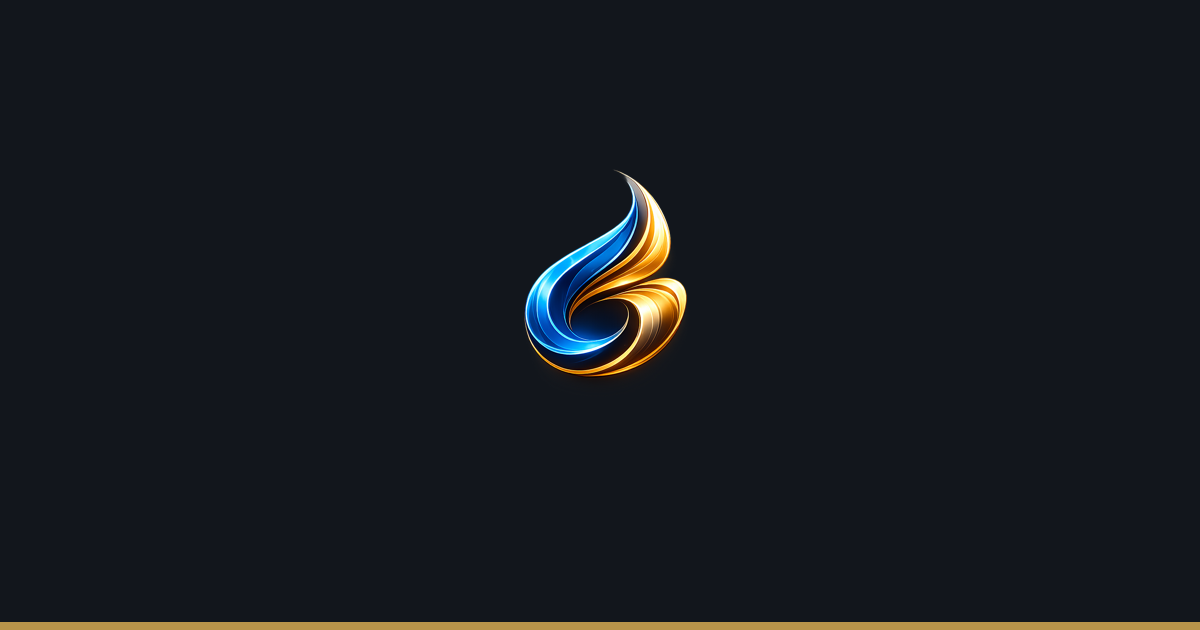
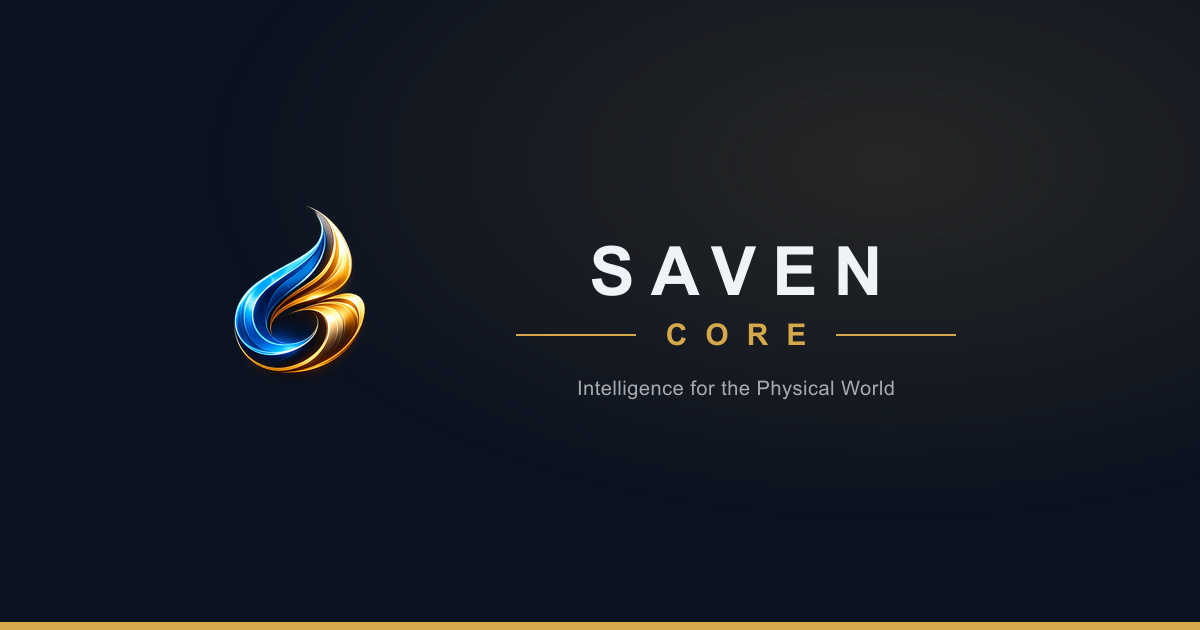
Add falcon seal on domain mastheads and branded OG share cards (D-0179).
Ensure shared links always preview with the SAVEN falcon mark and SAVEN Core name.

diff --git a/src/components/hub/HubReadablePage.tsx b/src/components/hub/HubReadablePage.tsx
@@ -4,6 +4,7 @@ import Link from "next/link";
 import { HubStoryIcon } from "@/components/hub/HubStoryIcon";
 import { LabsDataLoop } from "@/components/labs/LabsDataLoop";
 import type { Locale } from "@/config/locales";
+import { SITE_FALCON_MARK_PATH } from "@/config/site";
 import type { HubPageContent } from "@/content/hub/types";
 import { getUi } from "@/i18n/ui";
 import { localizePath } from "@/navigation/locale-path";
@@ -70,6 +71,18 @@ export function HubReadablePage({ locale, content }: HubReadablePageProps) {
         ) : (
           <div className="hub-page__masthead-field" aria-hidden="true" />
         )}
+
+        {/* Approved brand falcon mark — quiet domain seal (D-0179); not a hero replacement */}
+        <div className="hub-page__falcon" aria-hidden="true">
+          <Image
+            src={SITE_FALCON_MARK_PATH}
+            alt=""
+            width={72}
+            height={97}
+            className="hub-page__falcon-mark"
+            draggable={false}
+          />
+        </div>
 
         <div className="hub-page__masthead-copy hub-page__inner">
           <p className="hub-page__label">{content.label}</p>

diff --git a/src/lib/admin/media-store.ts b/src/lib/admin/media-store.ts
@@ -22,7 +22,7 @@ const SEED_ITEMS: readonly MediaItem[] = [
     createdAt: "2026-07-26T00:00:00.000Z",
     source: "seed",
     publicPath: "/brand/saven-logo-mark.webp",
-    description: "Brand mark used in site chrome.",
+    description: "Falcon brand mark used in site chrome and domain mastheads.",
   },
   {
     id: "seed-logo-mark-png",
@@ -33,7 +33,7 @@ const SEED_ITEMS: readonly MediaItem[] = [
     createdAt: "2026-07-26T00:00:00.000Z",
     source: "seed",
     publicPath: "/brand/saven-logo-mark.png",
-    description: "Email-safe PNG brand mark for templates and mailings.",
+    description: "Email-safe PNG falcon brand mark for templates and mailings.",
   },
   {
     id: "seed-og-default",
@@ -44,7 +44,7 @@ const SEED_ITEMS: readonly MediaItem[] = [
     createdAt: "2026-07-26T00:00:00.000Z",
     source: "seed",
     publicPath: "/brand/og-default.png",
-    description: "Default social sharing image for the public site.",
+    description: "Default social share card — falcon mark + SAVEN Core name (1200×630).",
   },
   {
     id: "seed-favicon",

diff --git a/src/components/hub/layer1-hub.css b/src/components/hub/layer1-hub.css
@@ -163,6 +163,31 @@
   mix-blend-mode: soft-light;
 }
 
+/* Brand falcon seal — top-end of domain mastheads; stays clear of title copy */
+.hub-page__falcon {
+  position: absolute;
+  z-index: 1;
+  top: clamp(1rem, 3vw, 1.75rem);
+  inset-inline-end: clamp(1rem, 3.5vw, 2rem);
+  pointer-events: none;
+  opacity: 0.78;
+  line-height: 0;
+}
+
+.hub-page__falcon-mark {
+  display: block;
+  width: clamp(2.75rem, 7vw, 4.25rem);
+  height: auto;
+  object-fit: contain;
+  mix-blend-mode: lighten;
+  filter: drop-shadow(0 1px 10px rgba(11, 18, 32, 0.45));
+}
+
+/* Purpose collage already dense — keep falcon quieter */
+.hub-page--purpose .hub-page__falcon {
+  opacity: 0.55;
+}
+
 .hub-page__masthead-copy {
   position: relative;
   z-index: 1;
@@ -171,6 +196,8 @@
   padding-block: clamp(3.5rem, 10vh, 5.5rem) clamp(2.5rem, 6vh, 3.75rem);
   max-width: min(44rem, 100%);
   margin-inline: 0;
+  /* Keep title block clear of the falcon seal on narrow viewports */
+  padding-inline-end: clamp(3.5rem, 12vw, 5.5rem);
 }
 
 .hub-page__label {

diff --git a/src/config/site.ts b/src/config/site.ts
@@ -14,8 +14,11 @@ export const SITE_URL =
   process.env.NEXT_PUBLIC_SITE_URL?.replace(/\/$/, "") ||
   "https://www.savencore.com";
 
+/** Default Open Graph / Twitter share image — logo + site name on brand canvas. */
 export const SITE_OG_IMAGE_PATH = "/brand/og-default.png";
 export const SITE_OG_IMAGE_ALT = "SAVEN Core";
+/** Approved falcon brand mark used in chrome and domain mastheads. */
+export const SITE_FALCON_MARK_PATH = "/brand/saven-logo-mark.webp";
 
 export const SITE_THEME_COLOR_LIGHT = "#f4f6f8";
 export const SITE_THEME_COLOR_DARK = "#0b1220";

diff --git a/src/lib/seo/metadata.ts b/src/lib/seo/metadata.ts
@@ -163,8 +163,9 @@ export function createHubGenerateMetadata(
       path,
       title: content.title,
       description: description.slice(0, 320),
-      image: content.visual?.mastheadImage || SITE_OG_IMAGE_PATH,
-      imageAlt: content.visual?.mastheadAlt || content.title,
+      // Sitewide share card: logo + SAVEN Core (D-0179). Do not substitute mastheads.
+      image: SITE_OG_IMAGE_PATH,
+      imageAlt: SITE_OG_IMAGE_ALT,
       ...(options?.noIndex ? { noIndex: true } : {}),
     });
   };

diff --git a/docs/DECISIONS_LOG.md b/docs/DECISIONS_LOG.md
@@ -2,7 +2,7 @@
 
 **Document status:** Append-only  
 **Authority:** Records owner-approved decisions that govern the project  
-**Last updated:** 2026-07-26 (D-0178 — Admin Platform expansion + branded email templates)
+**Last updated:** 2026-07-26 (D-0179 — Falcon domain presence + OG share defaults)
 
 ## Rules
 
@@ -194,6 +194,7 @@
 | D-0176 | 2026-07-26 | Admin Platform / Social footer — first vertical slice | Active |
 | D-0177 | 2026-07-26 | Owner always super_admin via demo operator / dev defaults | Active |
 | D-0178 | 2026-07-26 | Admin Platform expansion + branded email templates | Active |
+| D-0179 | 2026-07-26 | Falcon domain presence + OG share defaults | Active |
 
 ---
 
@@ -1582,6 +1583,15 @@
 - **In scope:** Email brand chrome; admin pages/APIs/nav/i18n; permission matrix; operators/invitations/notifications/mailings stores; optional SMTP helper; `docs/ADMIN_PLATFORM.md`; D-0178 + AGENTS phase pointer; `tsc`/smoke; commit/push/deploy.
 - **Out of scope:** Inventing customers/metrics/ROI; neon; durable S3/DB; fabricating SMTP delivery success without SMTP; changing public IA/heroes; final legal prose.
 - **Implications:** On Vercel (read-only FS), JSON persistence may be unavailable until durable storage — UI must stay honest. SMTP is optional; simulated send must never claim real delivery.
+
+### D-0179 — Falcon domain presence + OG share defaults
+
+- **Date:** 2026-07-26
+- **Status:** Active
+- **Decision:** Owner authorizes (1) **Falcon brand presence on domain pages** — the approved SAVEN brand mark in `public/brand/saven-logo-mark.webp` (and PNG companion) is the project falcon mark; place it tastefully as a quiet seal on Layer-1 / domain visual mastheads (`HubReadablePage`), straight corners, no neon, without replacing Purpose collage or frozen heroes (D-0175). No invented stock falcon photography. (2) **Sitewide Open Graph / Twitter share defaults** — when any public URL is shared, previews must show the SAVEN falcon logo + site name **SAVEN Core**: `metadataBase` `https://www.savencore.com`, `og:site_name` = SAVEN Core, `og:title` / Twitter title from page title, `og:image` = absolute `/brand/og-default.png` (1200×630 branded canvas with mark + name), `twitter:card` = `summary_large_image`. Page-level metadata may override title/description but must keep the default share image and site name (do not substitute thematic mastheads as OG images).
+- **In scope:** Domain masthead falcon seal + CSS; regenerate `public/brand/og-default.png` (+ webp); SEO metadata helper defaults; media-store seed descriptions; D-0179 + AGENTS phase pointer; smoke `/en/` meta + OG image HTTP 200; commit/push; production deploy.
+- **Out of scope:** Invented falcon photography/stock; changing Purpose collage or home hero; inventing company facts; neon/glow decoration; CMS/analytics.
+- **Implications:** Extends D-0169 SEO/share surface. Social crawlers cache OG images — cache bust may take time after deploy.
 
 ## Pending Owner Decisions
 

diff --git a/AGENTS.md b/AGENTS.md
@@ -8,7 +8,7 @@ If you are a coding agent (Cursor or otherwise), read this file before making an
 
 ## Current Phase
 
-**Admin Platform expansion (D-0178) + Social footer (D-0176) + owner super_admin (D-0177)** — restricted `/[locale]/admin/` with branded email templates (SAVEN/CORE lockup + email-safe logo), polished admin shell, working roles/permissions/users/invitations/notifications/mailings (JSON store; SMTP optional / simulated otherwise); demo/owner Credentials operator always `super_admin`; public Experience Redesign UI freeze (D-0175) unchanged — read `docs/ADMIN_PLATFORM.md`, `docs/SITE_ASSIGNMENT.md`, `docs/SITE_AUDIT_REPORT.md`, and D-0134–D-0178.
+**Falcon domain presence + OG share defaults (D-0179)** + Admin Platform (D-0176–D-0178) — approved falcon brand mark on domain/hub mastheads; sitewide Open Graph / Twitter cards use logo + **SAVEN Core** (`/brand/og-default.png`, `metadataBase` https://www.savencore.com); restricted `/[locale]/admin/` with branded email templates, roles/permissions/users/invitations/notifications/mailings (JSON store; SMTP optional / simulated); demo/owner Credentials operator always `super_admin`; public Experience Redesign UI freeze (D-0175) unchanged for heroes — read `docs/ADMIN_PLATFORM.md`, `docs/SITE_ASSIGNMENT.md`, `docs/SITE_AUDIT_REPORT.md`, and D-0134–D-0179.
 
 Hero: **Intelligence for the Physical World.** + living photoreal **help collage** (D-0149/D-0151/D-0152). Post-hero: **one** care-focused living carousel (D-0150). **Page bodies + UI chrome for all 10 locales** (`en`/`es`/`de`/`fr`/`ja`/`zh-cn`/`ar`/`he`/`uk`/`ru`; English canonical). Header: logo + **important Layer-1 hubs** (≤7) + Sign In/Up text link + sun/moon theme + language with flags (D-0153/D-0155/D-0156; Install app is footer-only — D-0164). Hubs **and domain leaves** share one visual shell (`DomainVisualPage` / Layer-1 hub grammar) — thematic masthead, short human lead, editorial story-band cues (not bordered WHAT/WHY/NEXT boxes), progressive depth (D-0157–D-0160; opening restyle D-0165). Thematic WebP mastheads under `public/domain/` (+ reused care/home assets where perfect). **Robotics Lab / Labs / Investors** brochure depth expanded honestly (D-0159; no fake traction/returns). Footer: full depth map **including Legal** (draft pages — pending legal review; D-0154), Copyright line, Install app, upward language menu with flags, theme icons. Auth: `/[locale]/auth/sign-in/` substantial SAVEN card — email/password (env operator allowlist) + show/hide password + Google; public soft-degrade when unset — no env/setup panels (D-0156/D-0158/D-0163/D-0164; no fake logged-in state; full user DB later). Brand text: `BrandName` matches logo wordmark sitewide (D-0164). Tagline: Turning Intelligence Into Human Care. Deploy target: Vercel (App Router); see `docs/VERCEL_DEPLOY.md`.
 
